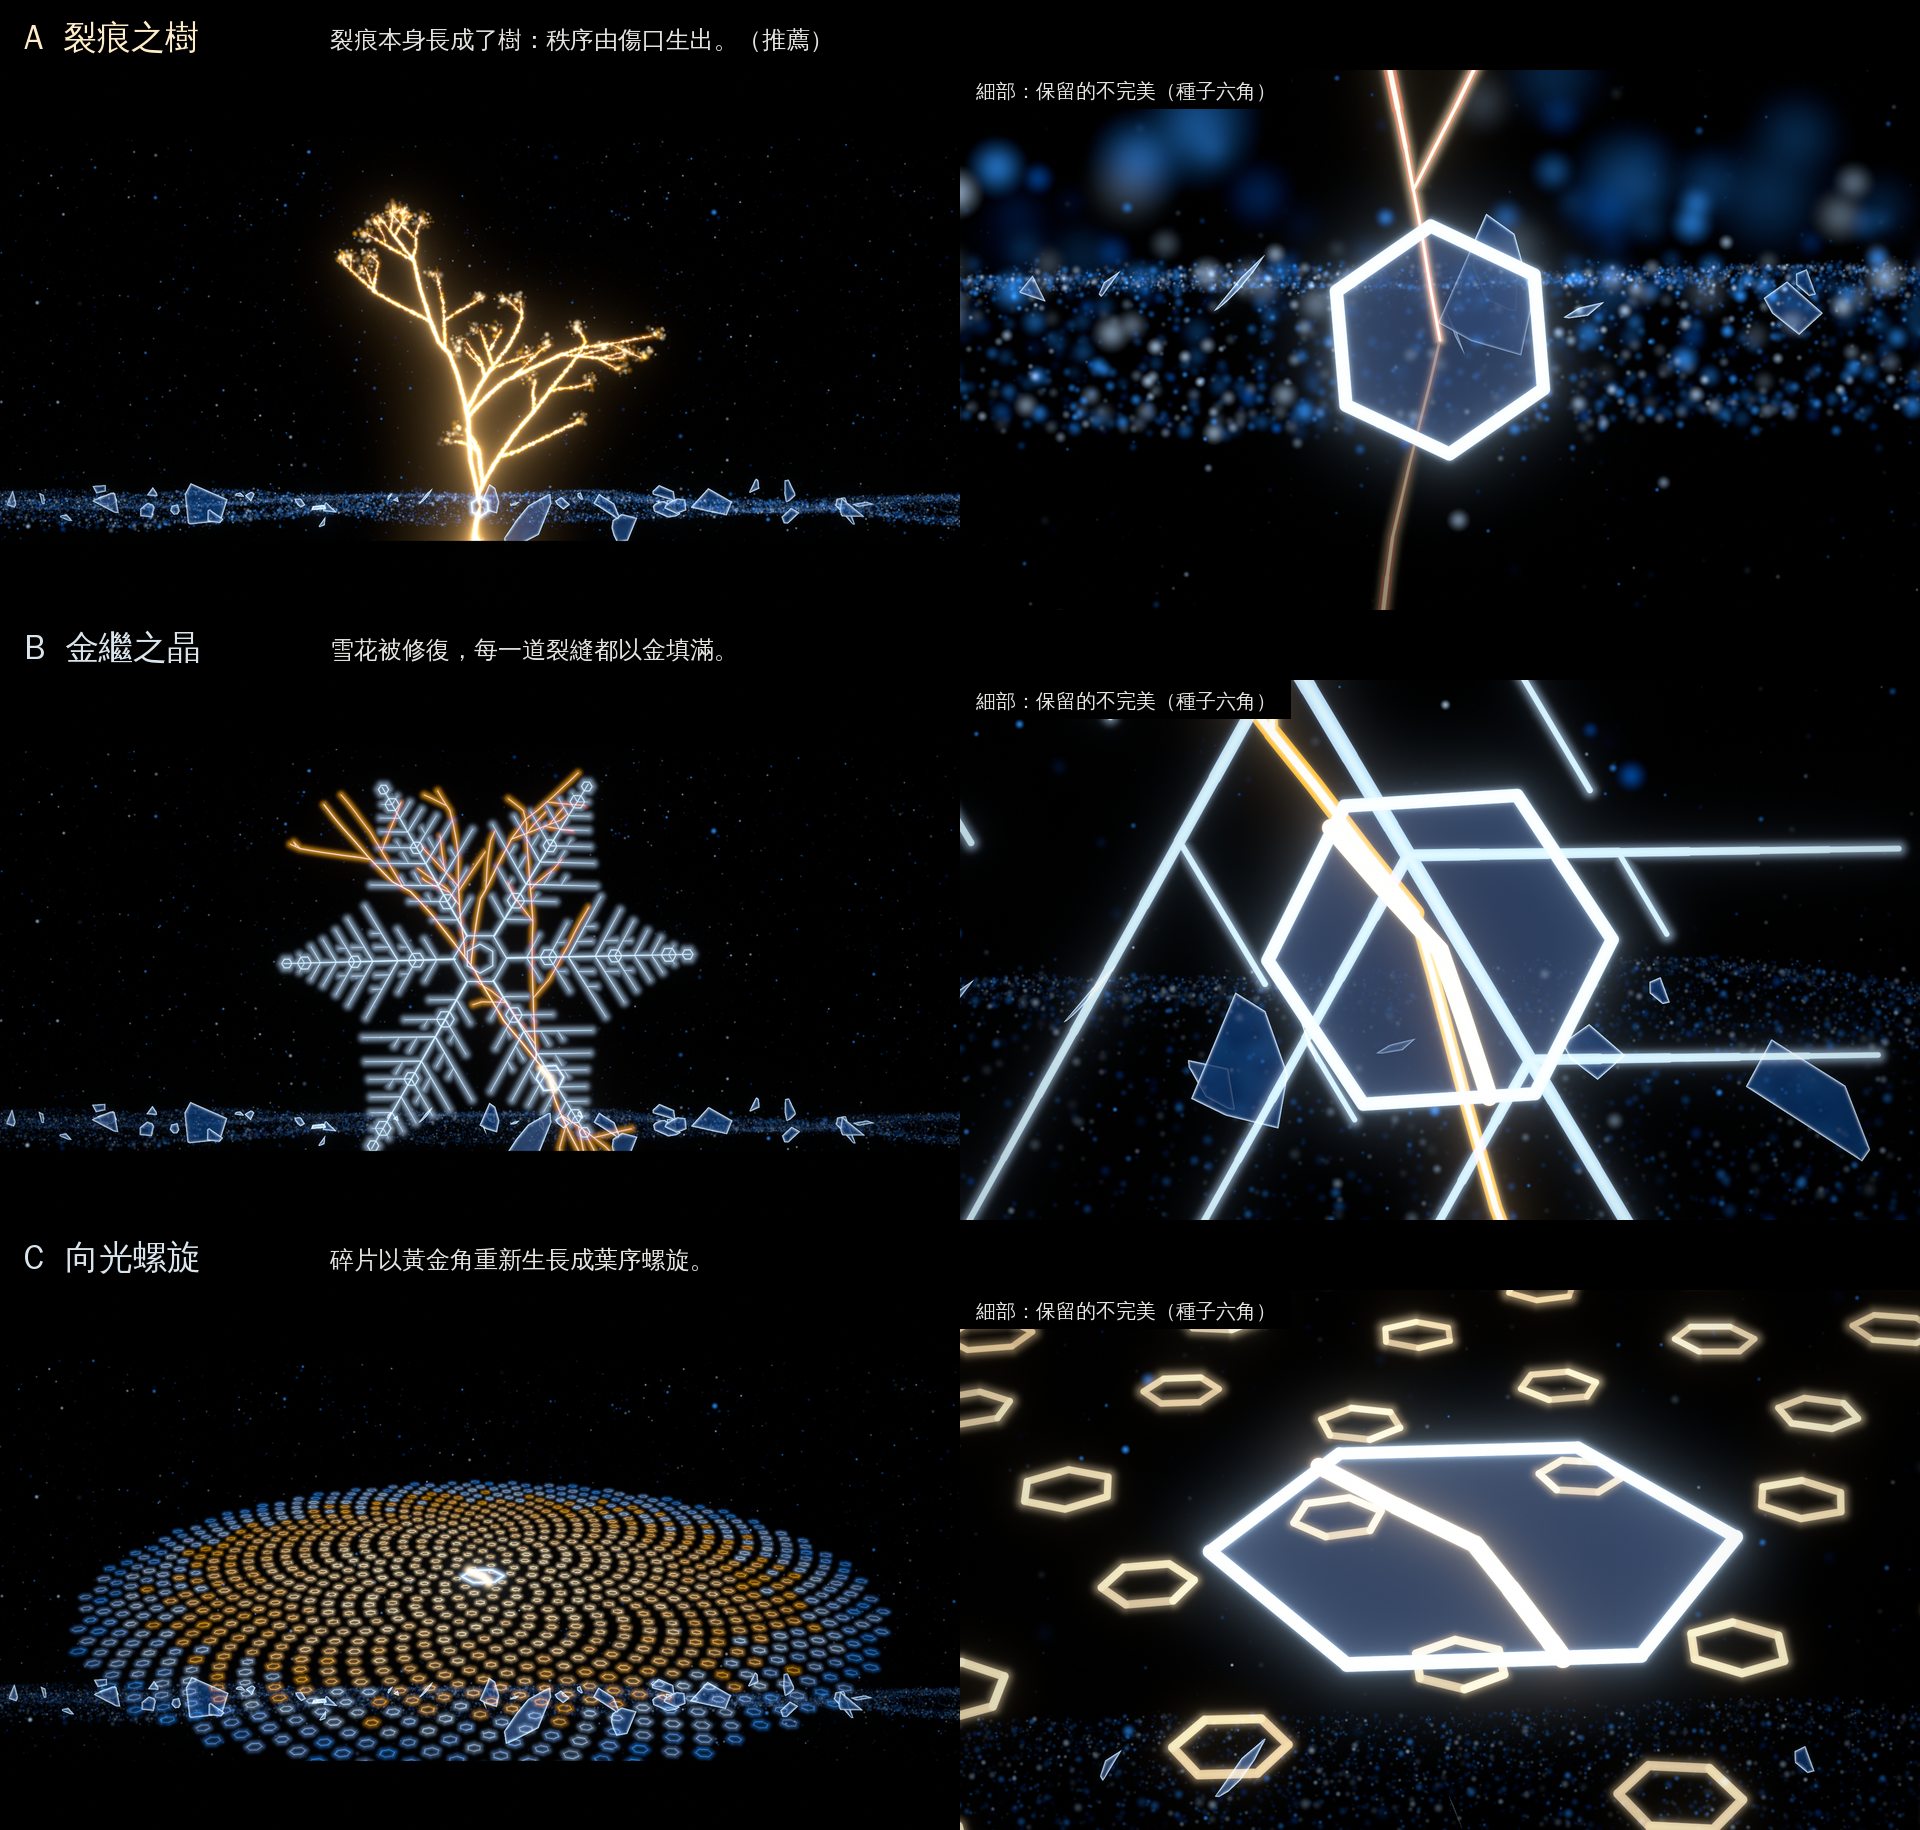
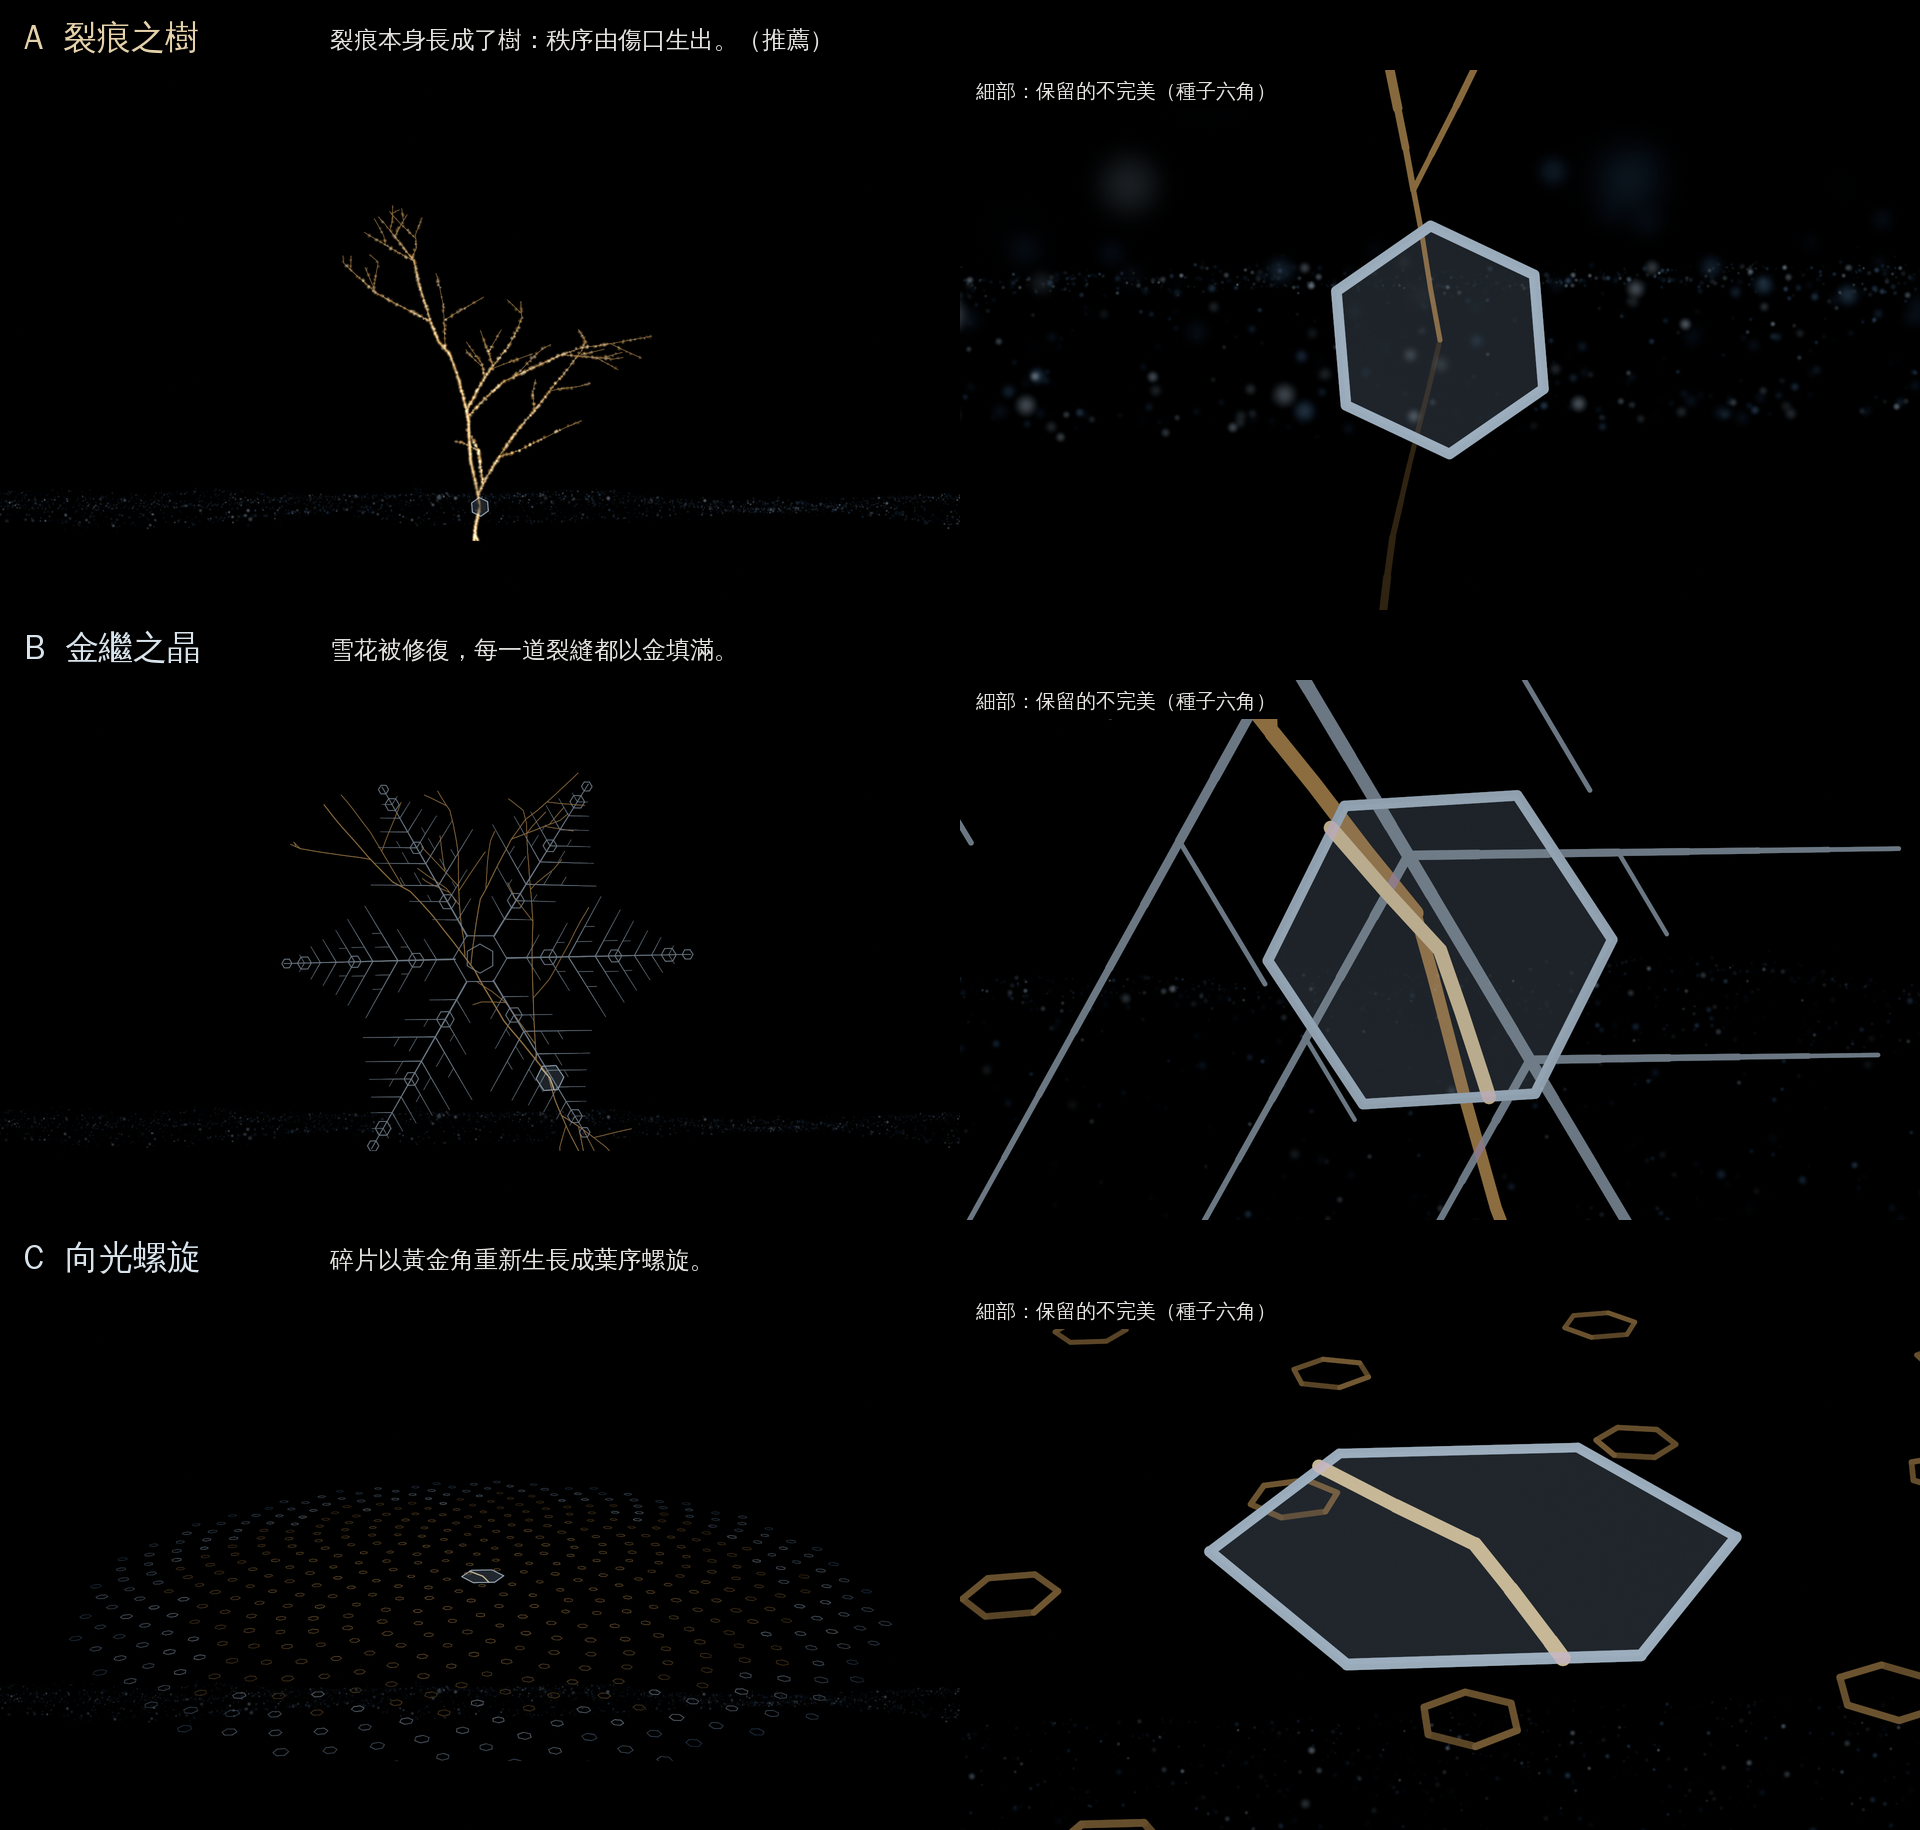
Checkpoint 1 v2: restraint pass — brass palette, no glow, 1/5 particles, deletion test
Claude-Session: https://claude.ai/code/session_01Y6K7X36u2N17V6T6MPZmWA

diff --git a/src/film/finals.js b/src/film/finals.js
@@ -182,18 +182,18 @@ function buildKintsugi(R, W) {
 
 // ---- C: phyllotaxis ------------------------------------------------------------
 function buildSpiral(R) {
-  const n = 1100, GA = Math.PI * (3 - Math.sqrt(5));
+  const n = 520, GA = Math.PI * (3 - Math.sqrt(5));
   const l = [];
   const rnd = mulberry32(77);
   for (let i = 1; i < n; i++) {
-    const r = 0.0165 * Math.sqrt(i), a = i * GA;
+    const r = 0.024 * Math.sqrt(i), a = i * GA;
     const c = [r * Math.cos(a), r * Math.sin(a)];
     const hr = 0.0072 * (0.75 + 0.25 * Math.sqrt(i / n)) * (0.9 + 0.2 * rnd());
     const hex = G.hexOutline(c, hr, a);
     const f = i / n;
     // dithered transition gold → azure: the living centre is warm, the outer (older) ring cold
     const u = Math.min(1, Math.max(0, f + (rnd() - 0.5) * 0.3));
-    const tok = u < 0.62 ? T['gold-0'] + Math.min(0.999, u / 0.62) * 1.0 + (u > 0.45 ? 0 : 0) : T['azure-0'] + Math.min(0.999, (u - 0.62) / 0.38);
+    const tok = u < 0.62 ? T['gold-1'] + Math.min(0.999, u / 0.62) : T['azure-0'] + Math.min(0.999, (u - 0.62) / 0.38);
     for (let k = 0; k < 6; k++) l.push({ p0: hex[k], p1: hex[(k + 1) % 6], w: 0.0007, tok, glowR: 0.004, glowAmt: 0.4, alpha: (1 - 0.5 * f) * (0.55 + 0.45 * rnd()) });
   }
   return R.system('lines', { data: lineBuf(l), glsl: LINES_BASIC });
@@ -234,42 +234,41 @@ export function buildFinals(R, W) {
 
 const L_ALL = (i = 1, tok = -1, w = 1, g = 1, root = 1) => ({ uP0: [99, i, 0, tok], uP1: [w, g, root, 0] });
 
-export function finalDraws(F, W, which, time, { macro = false } = {}) {
+// Restraint defaults (checkpoint-1 feedback). Every switch here survived the deletion test;
+// see DIRECTOR_NOTES §11. `off` lets tools/deletion_test.mjs remove one effect at a time.
+export const KEEP = { dust: false, drift: false, blossom: false, halo: false, river: true, sap: true };
+export function finalDraws(F, W, which, time, { macro = false, off = null } = {}) {
+  const on = (k) => KEEP[k] && k !== off;
   const d = [];
+  const halo = on('halo') ? 1 : 0;
   const seedHexDraw = (M, i = 1, seam = true) => {
-    d.push({ sys: F.seed.fill, blend: 'over', u: { uModel: M, uP0: [0.6, 0, 0, 0], uEdgeTok: T['azure-0'], uSheen: 0.8 } });
-    d.push({ sys: F.seed.lines, blend: 'max', u: { uModel: M, ...L_ALL(i), uP1: [1, 1, 1, 0] }, count: seam ? undefined : 6 });
+    d.push({ sys: F.seed.fill, blend: 'over', u: { uModel: M, uP0: [0.35, 0, 0, 0], uEdgeTok: T['azure-0'], uSheen: 0.25 } });
+    d.push({ sys: F.seed.lines, blend: 'max', u: { uModel: M, ...L_ALL(i), uP1: [0.8, 0.25 * halo, 1, 0] }, count: seam ? undefined : 6 });
   };
-  d.push({ sys: F.dust, u: { uP0: [0.6, 0, 0, 0] } });
-  d.push({ sys: F.drift, blend: 'over', u: { uP0: [0.9, 0, 0, 0], uEdgeTok: T['azure-0'], uSheen: 0.6 } });
+  if (on('dust')) d.push({ sys: F.dust, u: { uP0: [0.6, 0, 0, 0] } });
+  if (on('drift')) d.push({ sys: F.drift, blend: 'over', u: { uP0: [0.9, 0, 0, 0], uEdgeTok: T['azure-0'], uSheen: 0.6 } });
+  // the current: 1/4 of the particles, only the brightest drawn (count), dim
+  if (on('river')) d.push({ sys: F.river, count: 10000, u: { uP0: [which === 'A' ? 0.55 : 0.3, 0, 0, 0] } });
   if (which === 'A') {
-    d.push({ sys: F.river, u: { uP0: [1.6, 0, 0, 0] } });
     const t = F.tree;
-    d.push({ sys: t.lines, blend: 'max', u: { ...L_ALL(0.75, T['gold-2'], 1.0, 1.0, 0.2) } });
-    d.push({ sys: t.lines, blend: 'max', u: { ...L_ALL(1.1, T['gold-0'], 0.4, 0.3, 0.2) } });
-    if (!macro) d.push({ sys: t.sapSys, u: { uNodes: { tex: t.nodeTex, unit: 3 }, uP0: [2.2, 0, 0, 0] } });
-    d.push({ sys: t.blossom, u: { uP0: [0.8, 0, 0, 0] } });
-    // seed at the root, 3.5° off its original orientation, scaled up so it reads
-    seedHexDraw(modelMat(0, HORIZON, 0.001, 0.061 + t.ang, t.sc), 1.3, false);
+    // lit brass filament: a narrow core, and (only because this is one of the two glow moments) a faint halo
+    d.push({ sys: t.lines, blend: 'max', u: { ...L_ALL(0.55, T['gold-1'], 0.75, 0.35 * halo, 0.12) } });
+    if (!macro && on('sap')) d.push({ sys: t.sapSys, count: 4000, u: { uNodes: { tex: t.nodeTex, unit: 3 }, uP0: [0.9, 0, 0, 0] } });
+    if (on('blossom')) d.push({ sys: t.blossom, u: { uP0: [0.8, 0, 0, 0] } });
+    seedHexDraw(modelMat(0, HORIZON, 0.001, 0.061 + t.ang, t.sc), 0.7, false);
   } else if (which === 'B') {
-    d.push({ sys: F.river, u: { uP0: [0.55, 0, 0, 0] } });
     const M = modelMat(0, 0.08, 0, 0.0, 1.12);
-    d.push({ sys: F.kin.flake, blend: 'max', u: { uModel: M, ...L_ALL(0.8) } });
-    d.push({ sys: F.kin.seam, blend: 'max', u: { uModel: M, ...L_ALL(1.0) } });
-    d.push({ sys: F.kin.seam, blend: 'max', u: { uModel: M, ...L_ALL(1.2, T['gold-0'], 0.45, 0.3) } });
+    d.push({ sys: F.kin.flake, blend: 'max', u: { uModel: M, ...L_ALL(0.32, -1, 0.8, 0.3 * halo) } });
+    d.push({ sys: F.kin.seam, blend: 'max', u: { uModel: M, ...L_ALL(0.6, T['gold-1'], 0.9, 0.35 * halo) } });
     const s = W.flake.seed;
-    const Ms = modelMat((s.c[0] + 0.004) * 1.12, 0.08 + (s.c[1] - 0.006) * 1.12, 0.001, 0.061, 1.12);
-    seedHexDraw(Ms, 1.2);
+    seedHexDraw(modelMat((s.c[0] + 0.004) * 1.12, 0.08 + (s.c[1] - 0.006) * 1.12, 0.001, 0.061, 1.12), 0.6);
   } else if (which === 'C') {
-    d.push({ sys: F.river, u: { uP0: [0.55, 0, 0, 0] } });
-    // disc tilted toward the camera, reads as a wide ellipse in 2.39
     const tilt = 1.12, c = Math.cos(tilt), s = Math.sin(tilt), k = 1.6;
     const M = [k, 0, 0, 0, 0, c * k, -s * k, 0, 0, s * k, c * k, 0, 0, -0.02, 0, 1];
-    d.push({ sys: F.spiral, blend: 'max', u: { uModel: M, ...L_ALL(0.9) } });
-    const Ms = [...M]; // seed at the very centre, slightly off-axis
+    d.push({ sys: F.spiral, blend: 'max', u: { uModel: M, ...L_ALL(0.4, -1, 0.8, 0.3 * halo) } });
     const r = 0.061, cr = Math.cos(r), sr = Math.sin(r), sc = 1.35;
     const R2 = [cr * sc * 0.8, sr * sc * 0.8, 0, 0, -sr * sc * 0.8, cr * sc * 0.8, 0, 0, 0, 0, sc, 0, 0.004, 0.002, 0.001, 1];
-    seedHexDraw(mulM(Ms, R2), 1.5);
+    seedHexDraw(mulM([...M], R2), 0.7);
   }
   return d;
 }

diff --git a/web/still.html b/web/still.html
@@ -16,14 +16,14 @@ const CAMS = {
   B: { eye: [0, -0.26, 2.3], target: [0, 0.1, 0] },
   C: { eye: [0, -0.26, 2.3], target: [0, 0.02, 0] },
 };
-window.renderFinal = (which, time = 3.0, inset = null) => {
+window.renderFinal = (which, time = 3.0, inset = null, off = null) => {
   const c = CAMS[which];
   let eye = c.eye, target = c.target, fov = 30;
   if (inset) { target = inset; eye = [inset[0], inset[1] + 0.01, inset[2] + 0.35]; fov = 16; }
   const cam = camera({ eye, target, fovY: fov * Math.PI / 180, width: R.W, height: R.H });
-  const tex = R.renderView({ view: R.main, cam, clear: [0, 0, 0], draws: finalDraws(F, W, which, time, { macro: !!inset }), time });
+  const tex = R.renderView({ view: R.main, cam, clear: [0, 0, 0], draws: finalDraws(F, W, which, time, { macro: !!inset, off }), time });
   const lb = (H_ - W_ / 2.39) / 2;
-  R.finish(tex, { exposure: 1, bloom: 0.1, bloomThreshold: 0.9, sat: 1.15, vignette: 0.3, grain: 0.012, matte: inset ? [0, 0, W_, H_] : [0, lb, W_, H_ - lb] }, 1);
+  R.finish(tex, { exposure: 1, bloom: 0, bloomThreshold: 0.6, sat: 1.0, vignette: 0.0, grain: 0.008, matte: inset ? [0, 0, W_, H_] : [0, lb, W_, H_ - lb] }, 1);
   return R.canvas.toDataURL('image/png');
 };
 const sd = W.flake.seed.c;

diff --git a/src/film/tokens.js b/src/film/tokens.js
@@ -23,18 +23,18 @@ export const TOKENS = [
   ['ash-2',         '#4a4948', 'Dim ash.'],
   ['ash-3',         '#161616', 'Almost gone.'],
   // Act III — warm gold
-  ['gold-0',        '#ffecc8', 'Gold core (white-hot).'],
-  ['gold-1',        '#f5b04a', 'Gold.'],
-  ['gold-2',        '#d27a26', 'Deep gold.'],
-  ['gold-3',        '#6b3a0c', 'Gold shadow.'],
+  ['gold-0',        '#e6d3ab', 'Old-gold highlight (never white-hot).'],
+  ['gold-1',        '#b08a52', 'Old gold / brass.'],
+  ['gold-2',        '#7d6038', 'Tarnished brass.'],
+  ['gold-3',        '#35281a', 'Brass in shadow.'],
   // Act III climax — cold blue that coexists with gold
-  ['azure-0',       '#c6e2ff', 'Azure highlight.'],
-  ['azure-1',       '#4d9dff', 'Azure.'],
-  ['azure-2',       '#1a4d9e', 'Deep azure.'],
+  ['azure-0',       '#b4c8da', 'Azure highlight.'],
+  ['azure-1',       '#4f6f8f', 'Azure.'],
+  ['azure-2',       '#1c2c3e', 'Deep azure.'],
   // Typography
   ['text-ice',      '#dfe8ef', 'Subtitle 1.'],
   ['text-ash',      '#c2c1be', 'Subtitle 2.'],
-  ['text-gold',     '#f6dfae', 'Subtitle 3.'],
+  ['text-gold',     '#d9c7a0', 'Subtitle 3.'],
 ];
 
 export const TOKEN_INDEX = Object.fromEntries(TOKENS.map(([n], i) => [n, i]));

diff --git a/DIRECTOR_NOTES.md b/DIRECTOR_NOTES.md
@@ -186,3 +186,47 @@ node tools/still.mjs A B C      # 重新渲染三個候選靜幀 → docs/checkp
 python3 tools/boards.py         # 重新產生 candidates.png / arc.png
 ```
 需要：Node 22 + Playwright（附 Chromium），ffmpeg，Python 3 + Pillow。一鍵渲染整片的指令會在檢查點 3 加上。
+
+---
+
+## 11. 檢查點 1 修正：克制（v2）
+
+並排比較：[`docs/checkpoint1/compare_v1_v2.png`](docs/checkpoint1/compare_v1_v2.png)（左 v1，右 v2）。
+刪除測試原圖：`docs/checkpoint1/deletion/`（`node tools/deletion_test.mjs` 重現）。
+
+### 新規則寫進系統
+- **發光預算：** 輝光只在兩個時刻開啟：34.1 重擊，以及 64.1 最終成形的那一下（短暫，隨後退回照明）。
+  其餘時間 bloom＝0、線條外暈＝0。靜幀是成形後的穩態，所以不發光。
+- **金色：** gold token 改成舊金／黃銅（`#e6d3ab / #b08a52 / #7d6038 / #35281a`），不再有白熱核心。
+  azure 也同步降飽和（`#b4c8da / #4f6f8f / #1c2c3e`），讓冷暖共存靠色相，不靠亮度。
+- **光的邏輯：** 物體是被照亮的，不是自己發光。沒有暗角、沒有擴散光霧，暗部就是純黑。
+- **飽和度曲線重新定義：** 「全片最高」是相對於這片自己，不是絕對的鮮豔。高潮的後製飽和度改為 1.0，靠 token 本身。
+
+### 刪除測試：刪掉什麼、保留什麼
+
+| 效果 | 測試結果 | 決定 | 理由 |
+|---|---|---|---|
+| 星空塵埃（16k 粒子） | 拿掉後鏡頭完全成立 | **刪除** | 純氛圍，也是星空長曝光的語彙 |
+| 河上漂浮碎片 | 拿掉後兩側空了，但成立 | **刪除** | 只是為了填 2.39:1 的空 |
+| 樹梢花簇粒子 | 拿掉後成立 | **刪除** | 裝飾 |
+| 線條外暈＋bloom | A/B/C 拿掉後都成立（`*_no-halo.png`） | **刪除**（只留給兩個發光時刻） | 靜態時是炫技 |
+| 暗角 | 純黑背景下無作用 | **刪除** | — |
+| 冷藍的河 | 拿掉後地平線和「流向」都消失（`A_no-river.png`） | **保留**，粒子 42k → 10k、亮度減半 | 它就是熵的方向，「逆流」要有流可逆 |
+| 樹液（向上的流） | 靜幀中拿掉反而更乾淨（`A_no-sap.png`） | **暫時保留**，16k → 4k | 只有在動態中才能表達向上的流；檢查點 3 的動態預覽再測一次，不成立就刪 |
+| 種子六角的玻璃面 | 拿掉後六角變成空框，讀不出「一塊碎片」 | **保留**，亮度降到 0.35 | 它是伏筆物件本身 |
+
+粒子總數：約 78k → **14k**（約 1/5.5）。
+
+### 量測（2.39:1 可視區內）
+
+| | 高光面積（>80%） | 純黑面積（<2%） |
+|---|---|---|
+| A v1 → v2 | 1.75% → **0.05%** | 72% → **97%** |
+| B v1 → v2 | 1.83% → **0.00%** | 69% → **96%** |
+| C v1 → v2 | 0.78% → **0.00%** | 56% → **96%** |
+
+### 修正後的觀察
+- 克制之後差距更明顯：**A 仍然成立**，一棵黃銅色的細樹、一條冷的地平線，其餘都是黑。
+  B 變成兩層線稿互相重疊，更像圖解；C 的點陣少了光之後近乎消失。推薦依舊是 A。
+- v1 未解決的「特寫金縫偏粉白」：已經消失（原因是外暈，不是 token）。
+- 新的風險：v2 可能太暗、太細，在小螢幕上會讀不出來。檢查點 2 的風格幀我會在手機尺寸下檢查可讀性。
